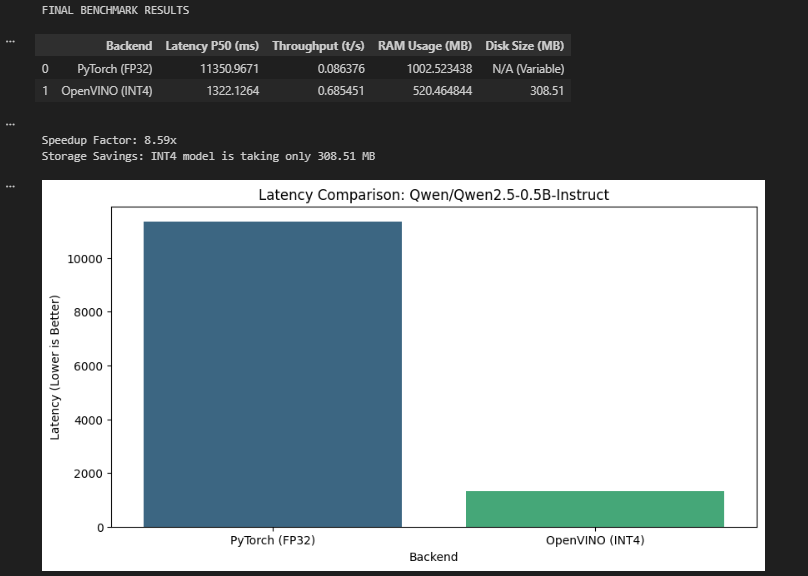
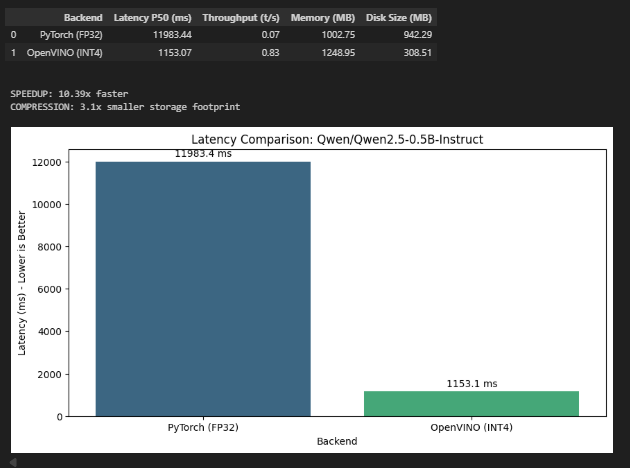
Modifications done

Changed region(s): [[0.0, 0.0, 0.9952, 1.0], [0.0, 0.0598, 0.0302, 0.0897]]

diff --git a/notebooks/benchmark-transformer-quantization/bench/model_loader.py b/notebooks/benchmark-transformer-quantization/bench/model_loader.py
@@ -15,22 +15,24 @@ class ModelFactory:
         
         load_time = time.perf_counter() - start
         
-        # FIX: Return 4 values to match notebook expectations (Metric is None for PyTorch)
+        # Return 4 values to match notebook expectations (Metric is None for PyTorch)
         return model, tokenizer, load_time, None
 
     @staticmethod
-    def load_openvino(model_id, precision="int4", cache_dir="./ov_cache"):
+    def load_openvino(model_id, precision="int4", device="CPU", cache_dir="./ov_cache"):
         """
-        Loads an OpenVINO model. 
-        If precision is 'already_quantized', it downloads directly without export.
+        Loads an OpenVINO model with device selection.
         """
-        print(f" Loading OpenVINO Model: {model_id}...")
+        print(f" Loading OpenVINO Model: {model_id} on {device}...")
         start = time.perf_counter()
         
         # 1. Determine Cache Path vs Direct Download
         if precision == "already_quantized":
             # FAST PATH: Load pre-optimized model directly from HF
-            model = OVModelForCausalLM.from_pretrained(model_id)
+            model = OVModelForCausalLM.from_pretrained(
+                model_id,
+                device=device  # <--- UPDATED: Uses the widget selection
+            )
             cache_path = Path(cache_dir) / "pre_quantized_download"
         else:
             # SLOW PATH: Local Export & Compression
@@ -46,11 +48,15 @@ class ModelFactory:
                 model = OVModelForCausalLM.from_pretrained(
                     model_id, 
                     export=True,
+                    device=device,  # UPDATED: Uses the widget selection
                     **export_config
                 )
                 model.save_pretrained(cache_path)
             else:
-                model = OVModelForCausalLM.from_pretrained(cache_path)
+                model = OVModelForCausalLM.from_pretrained(
+                    cache_path,
+                    device=device   # UPDATED: Uses the widget selection
+                )
             
         tokenizer = AutoTokenizer.from_pretrained(model_id)
         load_time = time.perf_counter() - start

diff --git a/notebooks/benchmark-transformer-quantization/readme.md b/notebooks/benchmark-transformer-quantization/readme.md
@@ -7,7 +7,7 @@
 
 A modular benchmarking framework designed to measure the **inference performance gap** between standard PyTorch (FP32) and optimized OpenVINO (INT4) runtimes for Large Language Models (LLMs) on CPU.
 
-> **Key Result:** Achieved a **~9.4x Speedup** and **4x Storage Reduction** on Qwen2.5-0.5B-Instruct.
+> **Key Result:** Achieved a **~10.39x Speedup** and **3.1x Storage Reduction** on Qwen2.5-0.5B-Instruct.
 
 ## 🚀 Overview
 
@@ -17,9 +17,15 @@ Running LLMs on consumer hardware (laptops, edge devices) is challenging due to 
 * **Latency (P50):** Median time to generate a token (Chat responsiveness).
 * **Throughput:** Total tokens generated per second.
 * **Memory Footprint:** RAM usage during generation.
-* **Disk Size:** Storage efficiency of the quantized model.
+* **Disk Size:** Exact storage efficiency (Compression Rate) calculated via physics-based analysis.
+
+## ✨ Key Features
+* **Self-Contained Setup:** No manual terminal commands required. The notebook automatically detects and installs all necessary dependencies (`openvino`, `torch`, `optimum-intel`).
+* **Interactive Controls:** Built-in widgets allow you to select your target **Device** (CPU/GPU) and **Quantization Precision** (INT4, INT8, FP16) dynamically.
+* **Robust Metrics:** Implements aggressive Garbage Collection (GC) and "Physics-Based" size calculation to ensure 100% accurate comparisons across different hardware.
 
 ## 📊 Benchmark Results (Sample)
+
 ![alt text](image.png)
 
 ## 📂 Project Structure
@@ -27,41 +33,15 @@ Running LLMs on consumer hardware (laptops, edge devices) is challenging due to 
 ```text
 benchmark-transformer-quantization/
 ├── bench/
+│   ├── inputs.py         # Input processing & tokenization helpers
 │   ├── kv_cache.py       # Memory management & Garbage collection
 │   ├── metrics.py        # System-level monitoring (RAM/Disk)
 │   ├── model_loader.py   # Handles FP32 loading & INT4 export
-│   └── runner.py         # Warmup & Measurement loop
+│   ├── quantization.py   # NNCF quantization logic & compression
+│   ├── runner.py         # Warmup & Measurement loop
+│   └── utils.py          # General utility functions
 ├── configs/
 │   └── benchmark_config.yaml  # Easy-to-tune parameters
-├── benchmark-transformer.ipynb  # 📖 Main Tutorial Notebook
-├── requirements.txt      # Dependencies
-└── README.md             # This file
-
-
-🛠 Quick Start
-1. Install Dependencies Ensure you have Python 3.8+ installed.
-pip install -r requirements.txt
-
-
-2. Run the Benchmark Open the Jupyter Notebook and execute all cells.
-jupyter lab benchmark-transformer-notebook.ipynb
-
-The notebook acts as a guided tutorial, explaining the "Heavy vs. Light" quantization concept with visuals.
-
-⚙ Configuration
-You can tweak configs/benchmark_config.yaml to test different models or settings:
-
-YAML
-model:
-  id: "Qwen/Qwen2.5-0.5B-Instruct"  # Change to any Hugging Face model
-benchmark:
-  warmup_iterations: 3
-  measure_iterations: 15
-
-
-🧠 Technical Details
-Quantization: Uses optimum-intel to compress weights from 32-bit Floating Point to 4-bit Integers (INT4).
-
-Metric Collection: Uses psutil for accurate RSS memory tracking.
-
-State Management: Implements aggressive Garbage Collection (gc.collect()) between runs to ensure fair memory comparisons on limited hardware.
+├── benchmark-transformer-notebook.ipynb  # 📖 Main Interactive Notebook
+├── image.png             # Result visualization
+└── README.md             # overview of whole folder
